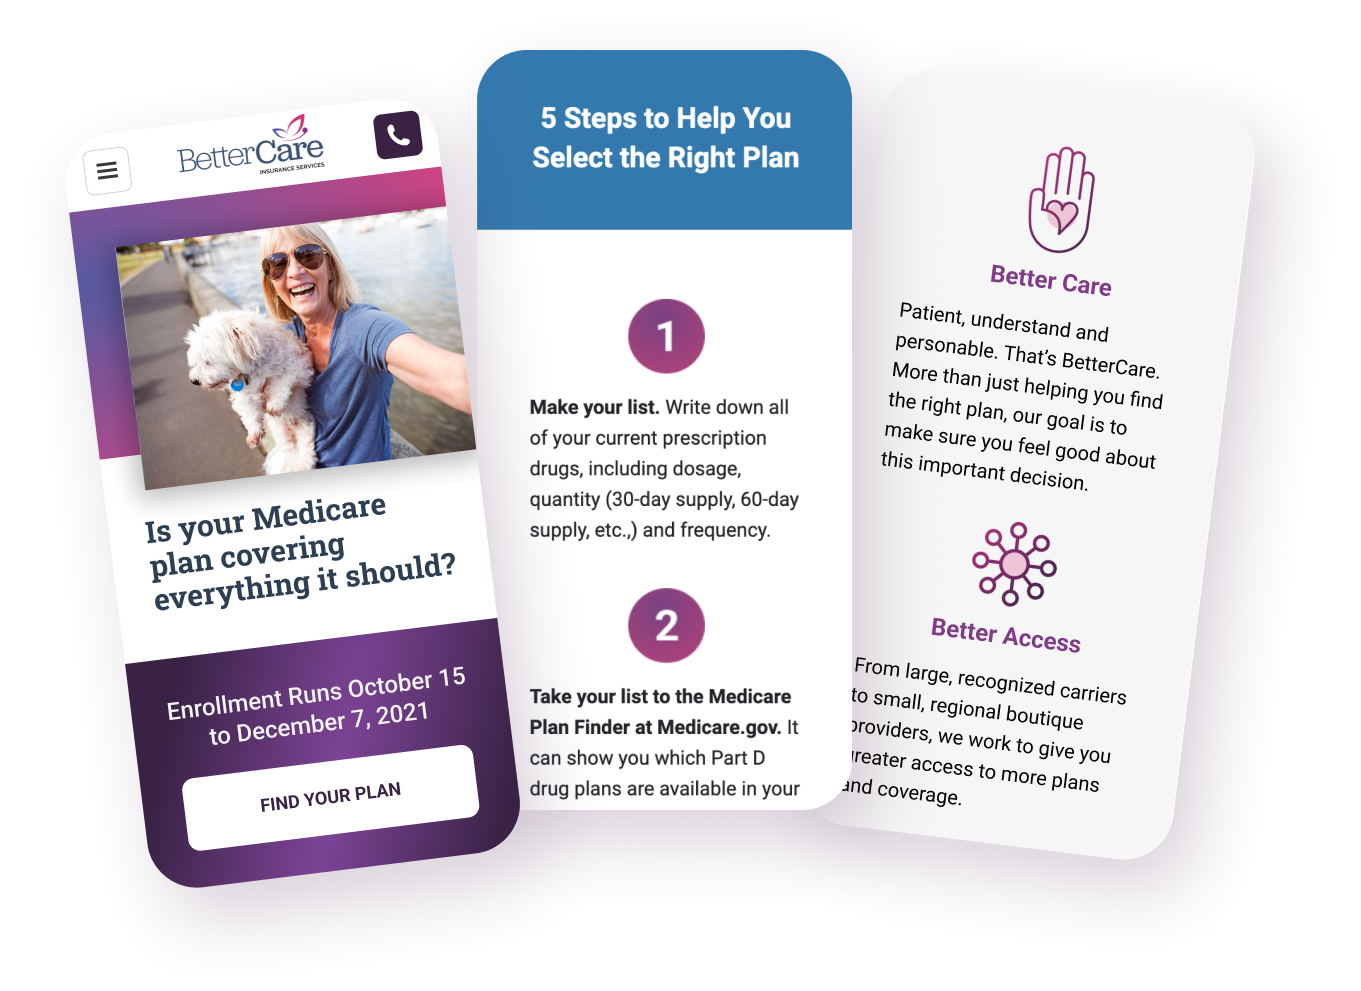
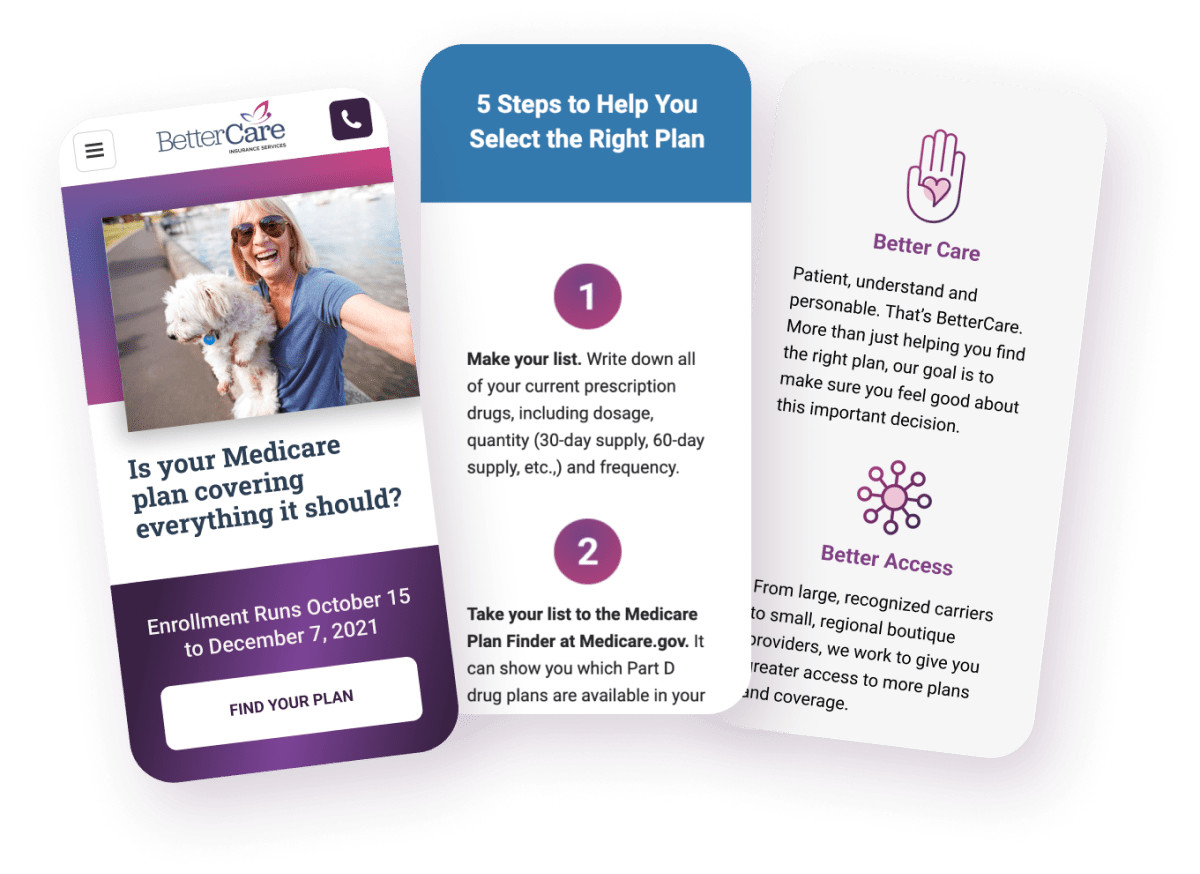
bettercare

Changed region(s): [[0.6783, 0.7723, 0.7092, 0.8032]]

diff --git a/index.html b/index.html
@@ -213,7 +213,7 @@
 
                 <div class="row justify-content-center pt-5">
                     <div class="col-md-6 col-lg-5 mb-4 mb-md-0 px-0">
-                        <a href="uc/bp.html"><img src="assets/img/portfolio/bp_pic.png" alt="AAG Borrower Portal Thumbnail" class="img-fluid thumb zoom " /></a>
+                        <img src="assets/img/portfolio/bp_pic.png" alt="AAG Borrower Portal Thumbnail" class="img-fluid thumb zoom " />
                     </div>
                     <div class="col-md-6 col-lg-5 pr-md-0 my-auto">
                         <div class="subhead-text text-uppercase">
@@ -229,19 +229,8 @@
 
                         </div>
                         <div class="pt-1">
-                            <a href="uc/bp.html" class="text-white">
-                                <button type="button" class="btn btn-primary">
-                                
-                                    <svg width="1em" height="1em" viewBox="0 0 16 16" class="bi bi-lock-fill mb-1 mr-2" fill="currentColor" xmlns="http://www.w3.org/2000/svg">
-                                        <path d="M2.5 9a2 2 0 0 1 2-2h7a2 2 0 0 1 2 2v5a2 2 0 0 1-2 2h-7a2 2 0 0 1-2-2V9z"/>
-                                        <path fill-rule="evenodd" d="M4.5 4a3.5 3.5 0 1 1 7 0v3h-1V4a2.5 2.5 0 0 0-5 0v3h-1V4z"/>
-                                      </svg>
-                                    View Case Study
-                                    <svg width="1em" height="1em" viewBox="0 0 16 16" class="bi bi-arrow-right" fill="currentColor" xmlns="http://www.w3.org/2000/svg">
-                                        <path fill-rule="evenodd" d="M1 8a.5.5 0 0 1 .5-.5h11.793l-3.147-3.146a.5.5 0 0 1 .708-.708l4 4a.5.5 0 0 1 0 .708l-4 4a.5.5 0 0 1-.708-.708L13.293 8.5H1.5A.5.5 0 0 1 1 8z"/>
-                                    </svg>
-                                </button>
-                            </a>
+                            <strong>Case Study Coming Soon</strong>
+                            
                         </div>
                     </div>
                 </div>
@@ -304,6 +293,7 @@
             <img src="assets/img/portfolio/addsub_pic_intro.png" />
             <img src="assets/img/portfolio/addsub_pic_chat.png" />
             <img src="assets/img/portfolio/addsub_pic_qr.png" />
+            <img src="assets/img/portfolio/bettercare_hero.png" />
         </div>
 
         <!-- Bootstrap core JS-->

diff --git a/uc/addSub.html b/uc/addSub.html
@@ -379,12 +379,10 @@
 
         <section class="page-section !border-top bg-secondary">
             <div class="container text-center">
-                <a href="../index.html"><button type="button" class="btn btn-primary btn-lg">
-                    
-                    Return to Home
-                    <svg width="1em" height="1em" viewBox="0 0 16 16" class="bi bi-house-door mb-1" fill="currentColor" xmlns="http://www.w3.org/2000/svg">
-                        <path fill-rule="evenodd" d="M7.646 1.146a.5.5 0 0 1 .708 0l6 6a.5.5 0 0 1 .146.354v7a.5.5 0 0 1-.5.5H9.5a.5.5 0 0 1-.5-.5v-4H7v4a.5.5 0 0 1-.5.5H2a.5.5 0 0 1-.5-.5v-7a.5.5 0 0 1 .146-.354l6-6zM2.5 7.707V14H6v-4a.5.5 0 0 1 .5-.5h3a.5.5 0 0 1 .5.5v4h3.5V7.707L8 2.207l-5.5 5.5z"/>
-                        <path fill-rule="evenodd" d="M13 2.5V6l-2-2V2.5a.5.5 0 0 1 .5-.5h1a.5.5 0 0 1 .5.5z"/>
+                <a href="bettercare.html"><button type="button" class="btn btn-primary btn-lg">
+                    NEXT: Bettercare Web Design &amp; Branding
+                    <svg width="1em" height="1em" viewBox="0 0 16 16" class="bi bi-arrow-right" fill="currentColor" xmlns="http://www.w3.org/2000/svg">
+                        <path fill-rule="evenodd" d="M1 8a.5.5 0 0 1 .5-.5h11.793l-3.147-3.146a.5.5 0 0 1 .708-.708l4 4a.5.5 0 0 1 0 .708l-4 4a.5.5 0 0 1-.708-.708L13.293 8.5H1.5A.5.5 0 0 1 1 8z"></path>
                       </svg>
                     </button>
                 </a>

diff --git a/css/new-styles.css b/css/new-styles.css
@@ -1163,6 +1163,10 @@ mark {
         width: 440px;
         margin: auto;
     }
+    .bettercare-container .masthead {
+        height: 560px;
+        padding-top: calc(2rem + 74px);
+    }
     .bettercare-container .hero-pic {
         position: relative;
         width: 450px;
@@ -1260,7 +1264,7 @@ mark {
         width: 700px;
     }
     .bettercare-container .masthead {
-        height: 665px;
+        height: 740px;
     }
 }
 
